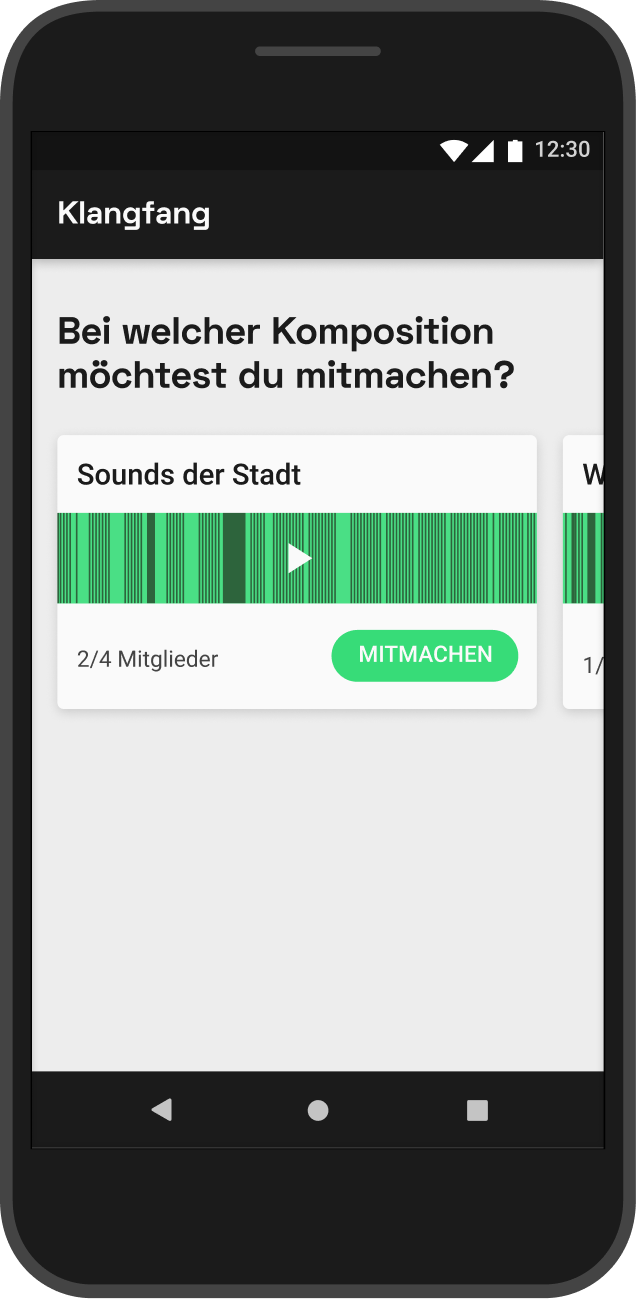
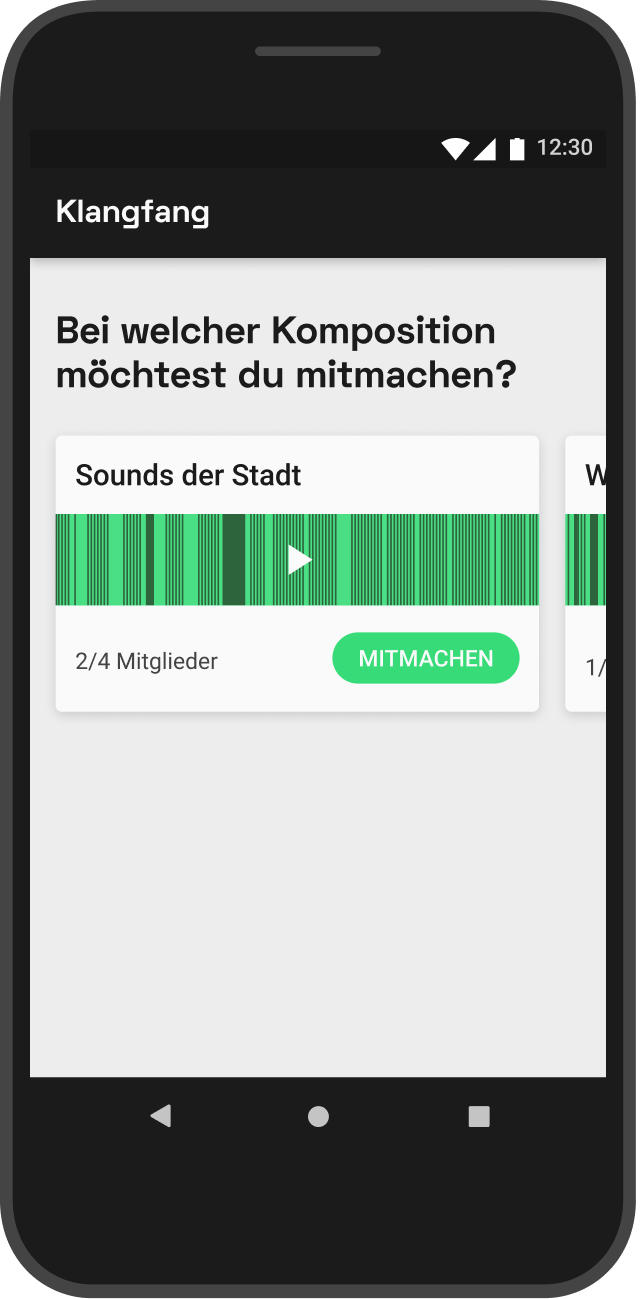
replace assets; add assets on mobile; hide scrollbar in slider; improve margins in slider

diff --git a/index.html b/index.html
@@ -99,16 +99,25 @@
             <h2 class="roadmap__title t--display-3">Auf der Roadmap</h2>
             <div class="roadmap-ideas">
                 <div class="roadmap-idea">
-                    <div class="roadmap-idea__visual"></div>
+                    <picture class="roadmap-idea__visual">
+                        <img src="./assets/roadmap_1.png"
+                             alt="Roadmap Idee"/>
+                    </picture>
                     <p class="roadmap-idea__description t--body-3">Sammle deine Sounds offline und füge sie später
                         hinzu</p>
                 </div>
                 <div class="roadmap-idea">
-                    <div class="roadmap-idea__visual"></div>
+                    <picture class="roadmap-idea__visual">
+                        <img src="./assets/roadmap_2.png"
+                             alt="Roadmap Idee"/>
+                    </picture>
                     <p class="roadmap-idea__description t--body-3">Entdecke fertige Collagen der Community</p>
                 </div>
                 <div class="roadmap-idea">
-                    <div class="roadmap-idea__visual"></div>
+                    <picture class="roadmap-idea__visual">
+                        <img src="./assets/roadmap_3.png"
+                             alt="Roadmap Idee"/>
+                    </picture>
                     <p class="roadmap-idea__description t--body-3">Lade Freunde ein und macht zusammen eine private Team
                         Collage</p>
                 </div>

diff --git a/index-mobile.css b/index-mobile.css
@@ -161,8 +161,16 @@
     padding-top: calc(var(--spacing-unit) * 2);
     padding-left: var(--spacing--horizontal);
     overflow-x: scroll;
+    -ms-overflow-style: none;  /* hide scrollbar on IE and Edge */
+    scrollbar-width: none;  /* hide scrollbar on Firefox */
     scroll-padding: 0 50%;
     scroll-snap-type: x proximity;
+  }
+
+  /* Hide scrollbar for Chrome, Safari and Opera */
+  .roadmap-ideas:-webkit-scrollbar,
+  .team__list:-webkit-scrollbar {
+    display: none;
   }
 
   .roadmap-idea,
@@ -171,11 +179,12 @@
     scroll-snap-align: center;
     display: inline-block;
     height: calc(var(--block-height) + 100px); /* Picture + description text */
+    margin-right: 5vw;
   }
 
-  .roadmap-idea + .roadmap-idea,
-  .team-list-item + .team-list-item {
-    padding-left: 5vw;
+  .roadmap-idea:last-child,
+  .team-list-item:last-child {
+    padding-right: 5vw;
   }
 
   .roadmap-idea__visual,
@@ -185,6 +194,7 @@
     height: var(--block-height);
   }
 
+  .roadmap-idea__visual img,
   .team-list-item__image img {
     display: block;
     object-fit: contain;
